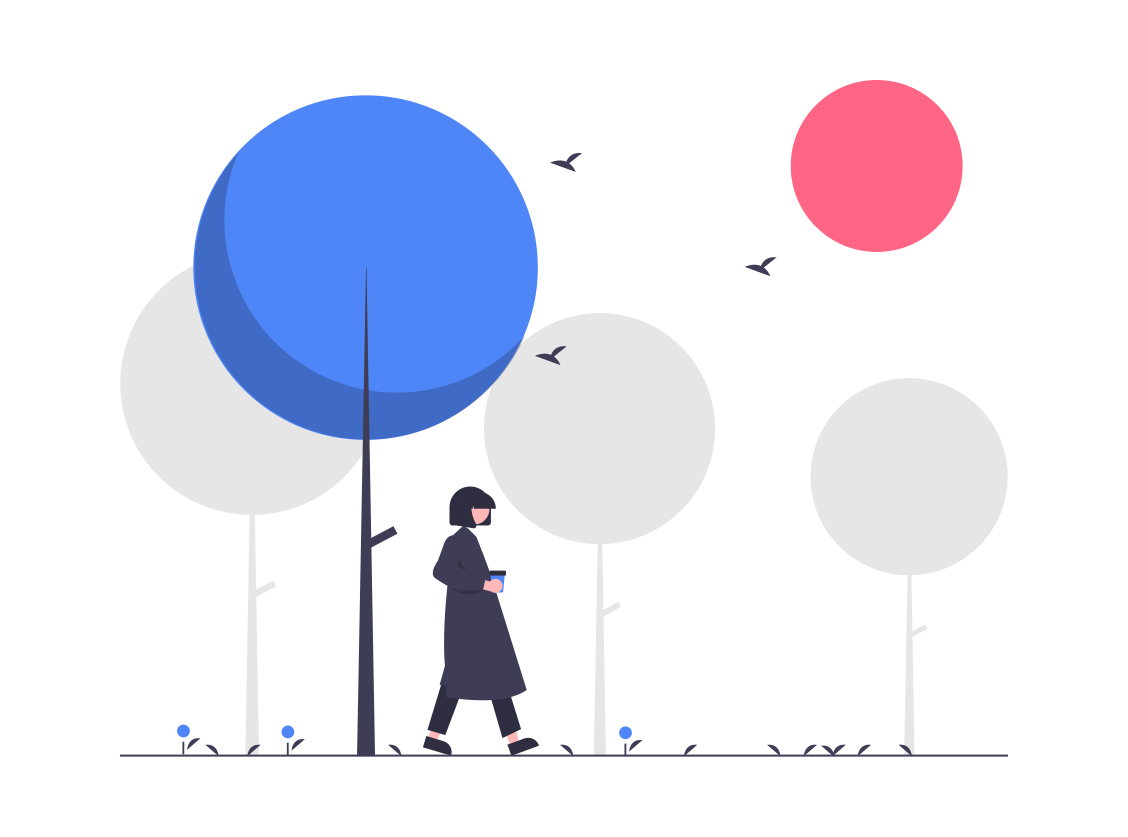
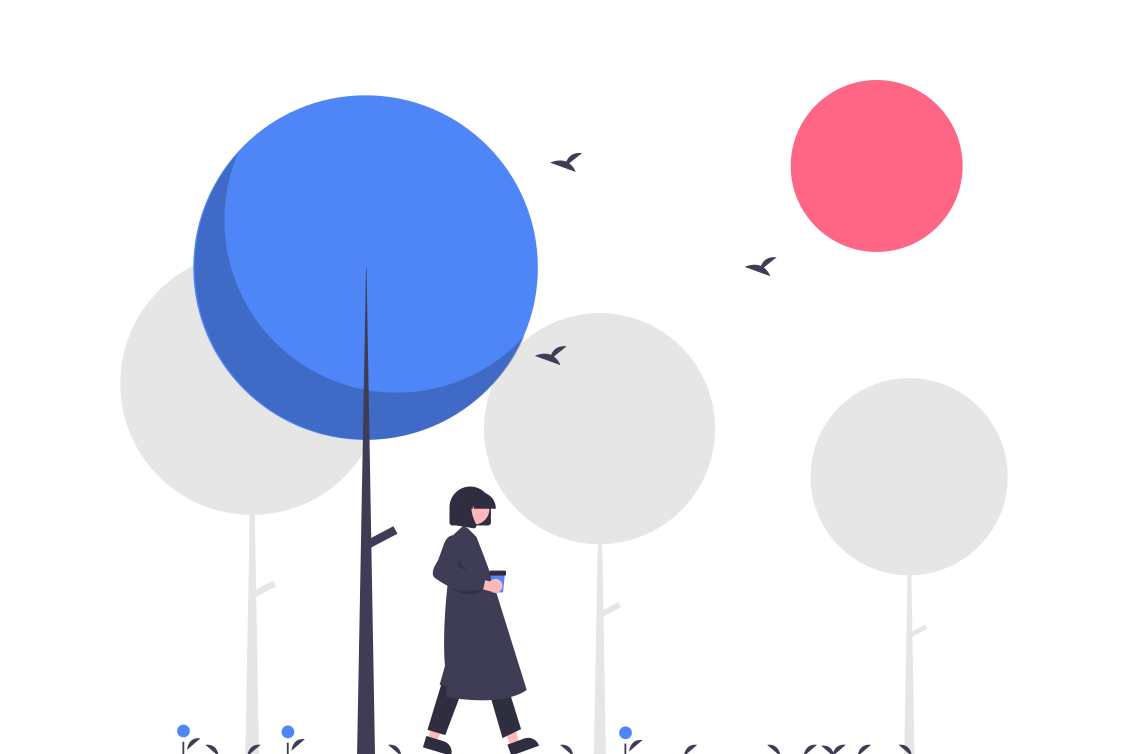
change main images to png

diff --git a/src/components/skills.js b/src/components/skills.js
@@ -1,13 +1,14 @@
 import React from "react"
 import styled from "styled-components"
 import { v4 } from "uuid"
+import { useStaticQuery, graphql } from "gatsby"
 
+import Image from "./shared/image"
 import Section from "./shared/section"
 
 import BugFixing from "../images/fixing-bugs.svg"
 import Mobile from "../images/mobile-development.svg"
 import Todo from "../images/to-do.svg"
-import Focus from "../images/dev-focus.svg"
 
 import { responsivePadding, desktopBreakpoint } from "../styled/styles"
 import { colors } from "../styled/constants"
@@ -81,52 +82,68 @@ const Items = styled.div`
   }
 `
 
-const Hero = styled(Focus)`
+const ImageContainer = styled.div`
   width: 100%;
 `
 
-const Skills = () => (
-  <Container id="skills">
-    <SectionContainer>
-      <Section
-        title="Skills"
-        alignment="flex-start"
-        subtitle="In my career, I have worked on numerous projects, adding features, fixing bugs, and working closely with designers. I have experience with responsive and cross-browser compatible applications and I am confident with my ability to create beautiful websites."
-        // animation="transition"
-      >
-        <Items>
-          <div>
-            <Todo />
-          </div>
-          <div>
-            <Mobile />
-          </div>
-          <div>
-            <BugFixing />
-          </div>
-        </Items>
-      </Section>
+const Skills = () => {
+  const data = useStaticQuery(graphql`
+    query {
+      placeholderImage: file(relativePath: { eq: "dev-focus.png" }) {
+        childImageSharp {
+          fluid(maxWidth: 1200) {
+            ...GatsbyImageSharpFluid
+          }
+        }
+      }
+    }
+  `)
 
-      <Section
-        subtitle="Being a self-taught programmer, I rely heavily on platforms such as freeCodeCamp and Udemy, as well as the people around me, to learn, sharpen my skills, and familiarize myself with all these state of the art technologies:"
-        alignment="flex-start"
-        animation="transition"
-      >
-        {technologies.map(({ id, text }) => (
-          <span key={id} id={id}>
-            {text}
-          </span>
-        ))}
-      </Section>
+  return (
+    <Container id="skills">
+      <SectionContainer>
+        <Section
+          title="Skills"
+          alignment="flex-start"
+          subtitle="In my career, I have worked on numerous projects, adding features, fixing bugs, and working closely with designers. I have experience with responsive and cross-browser compatible applications and I am confident with my ability to create beautiful websites."
+          // animation="transition"
+        >
+          <Items>
+            <div>
+              <Todo />
+            </div>
+            <div>
+              <Mobile />
+            </div>
+            <div>
+              <BugFixing />
+            </div>
+          </Items>
+        </Section>
 
-      <Section
-        subtitle="Last but not least, my strongest human qualities are: I pay attention to detail, I am highly adaptable, and I work best in a team."
-        alignment="flex-start"
-      >
-        <Hero />
-      </Section>
-    </SectionContainer>
-  </Container>
-)
+        <Section
+          subtitle="Being a self-taught programmer, I rely heavily on platforms such as freeCodeCamp and Udemy, as well as the people around me, to learn, sharpen my skills, and familiarize myself with all these state of the art technologies:"
+          alignment="flex-start"
+          animation="transition"
+        >
+          {technologies.map(({ id, text }) => (
+            <span key={id} id={id}>
+              {text}
+            </span>
+          ))}
+        </Section>
+
+        <Section
+          subtitle="Last but not least, my strongest human qualities are: I pay attention to detail, I am highly adaptable, and I work best in a team."
+          alignment="flex-start"
+        >
+          <ImageContainer>
+            <Image data={data} />
+          </ImageContainer>
+        </Section>
+      </SectionContainer>
+    </Container>
+  )
+}
 
 export default Skills

diff --git a/src/components/contact.js b/src/components/contact.js
@@ -5,10 +5,10 @@ import {
   GithubOutlined,
   MailOutlined,
 } from "@ant-design/icons"
+import { useStaticQuery, graphql } from "gatsby"
 
+import Image from "./shared/image"
 import Section from "./shared/section"
-
-import Background from "../images/background.svg"
 
 import { colors, fontSizes } from "../styled/constants"
 import { responsivePadding, desktopBreakpoint } from "../styled/styles"
@@ -68,7 +68,7 @@ const IconContainer = styled.div`
   }
 `
 
-const Hero = styled(Background)`
+const ImageContainer = styled.div`
   width: 100%;
 `
 
@@ -108,16 +108,32 @@ export const contactIcons = (
   </>
 )
 
-const Contact = () => (
-  <Container>
-    <SectionContainer>
-      <Ruffles>{contactIcons}</Ruffles>
+const Contact = () => {
+  const data = useStaticQuery(graphql`
+    query {
+      placeholderImage: file(relativePath: { eq: "background.png" }) {
+        childImageSharp {
+          fluid(maxWidth: 1200) {
+            ...GatsbyImageSharpFluid
+          }
+        }
+      }
+    }
+  `)
 
-      <Section end>
-        <Hero />
-      </Section>
-    </SectionContainer>
-  </Container>
-)
+  return (
+    <Container>
+      <SectionContainer>
+        <Ruffles>{contactIcons}</Ruffles>
+
+        <Section end>
+          <ImageContainer>
+            <Image data={data} />
+          </ImageContainer>
+        </Section>
+      </SectionContainer>
+    </Container>
+  )
+}
 
 export default Contact

diff --git a/src/components/summary.js b/src/components/summary.js
@@ -1,9 +1,9 @@
 import React from "react"
 import styled from "styled-components"
 import { useStaticQuery, graphql } from "gatsby"
-import Image from "./shared/image"
 import "@fontsource/montserrat/500.css"
 
+import Image from "./shared/image"
 import Section from "./shared/section"
 
 import { fontSizes } from "../styled/constants"
